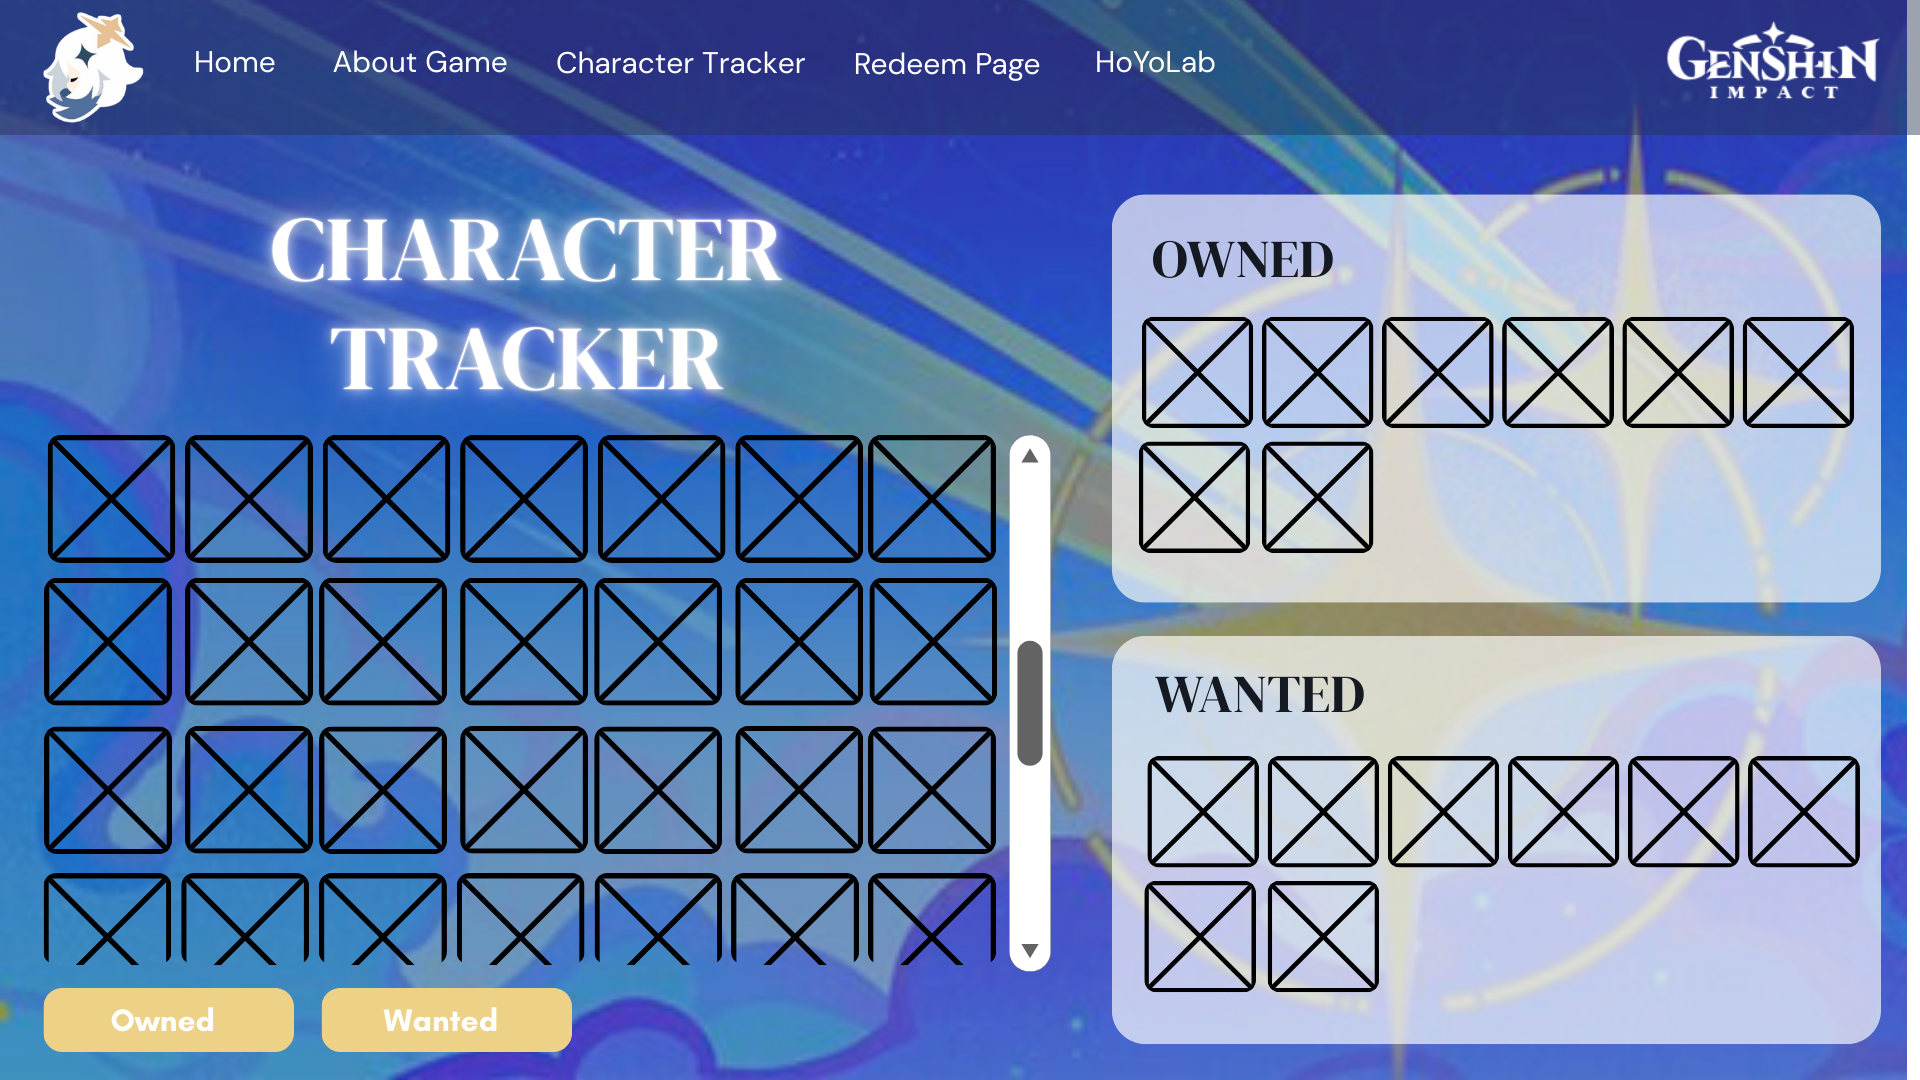
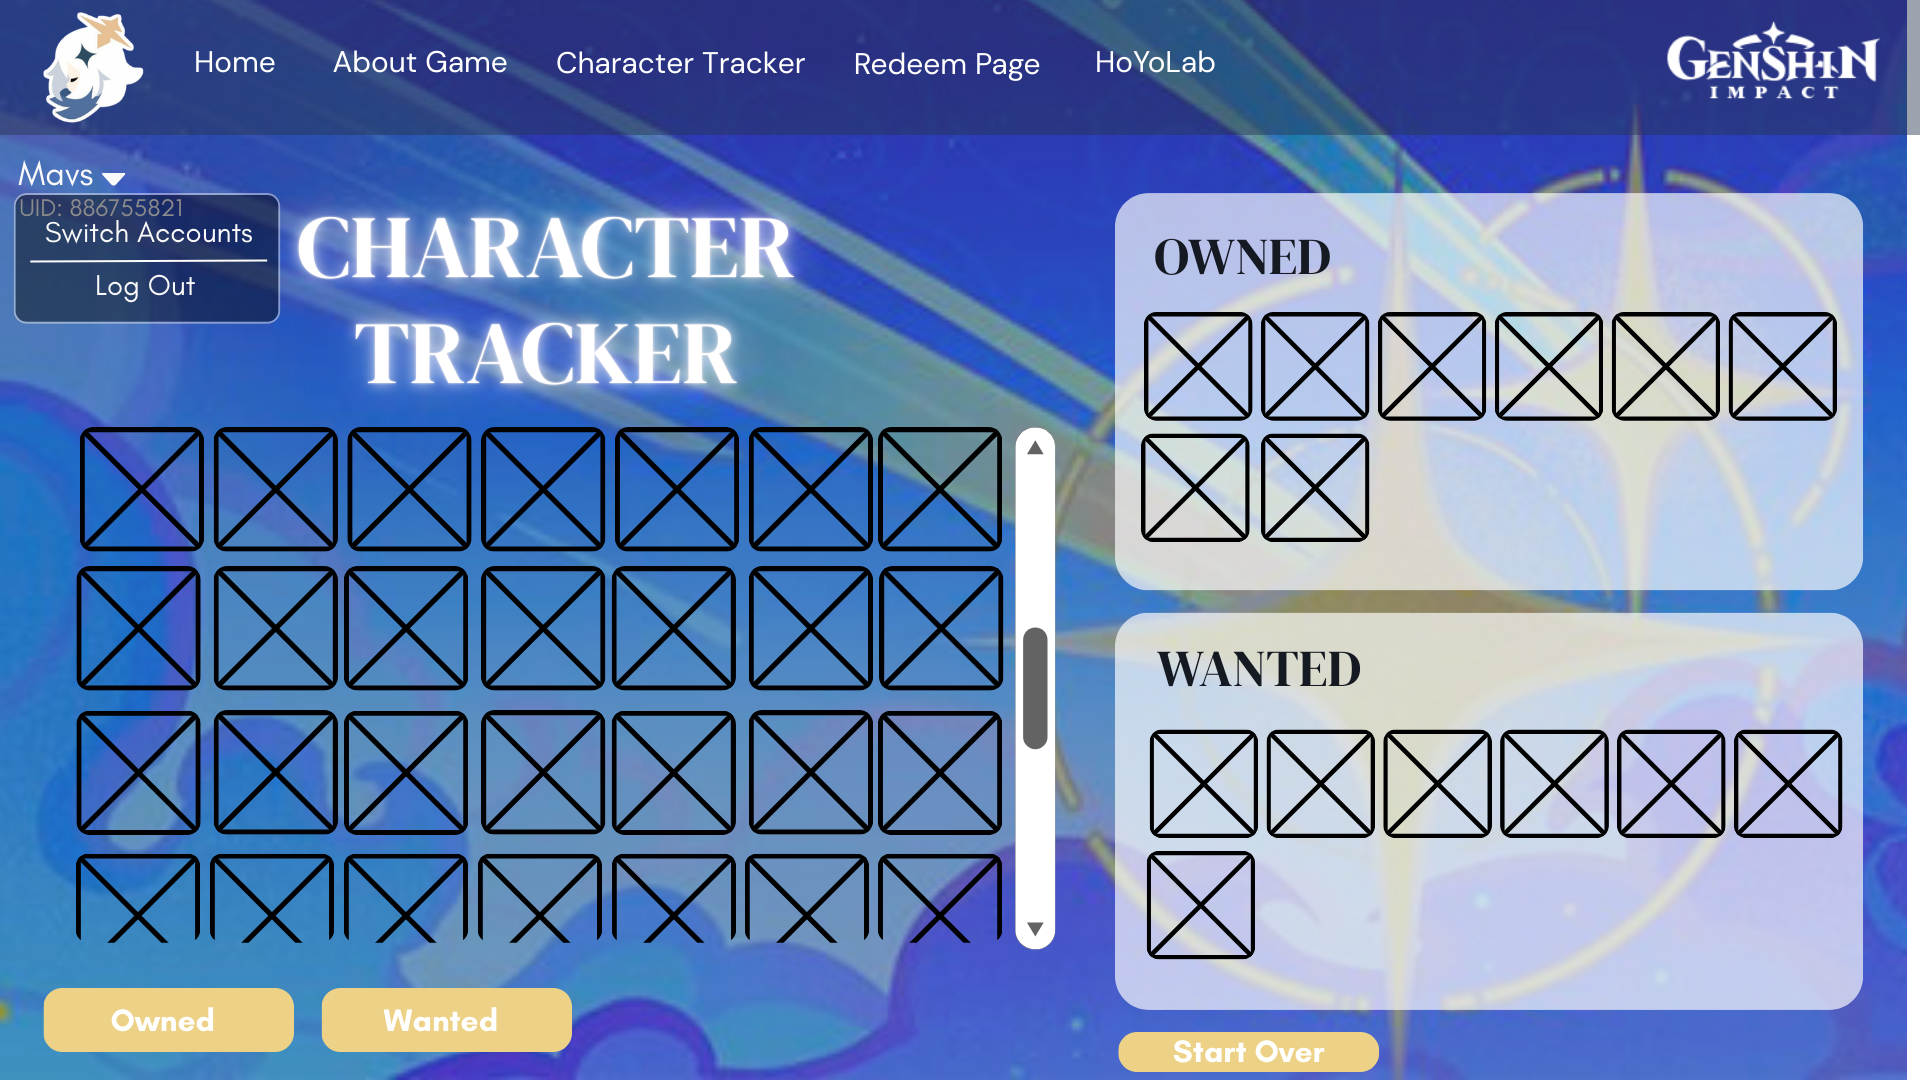
Update plan proposal

Changed region(s): [[0.0, 0.1833, 1.0, 1.0], [0.0, 0.1528, 0.4375, 0.3667]]

diff --git a/README.md b/README.md
@@ -2,62 +2,75 @@
 
 ## Webpage/Pop-up 1: Log-in page (Form page):
 ### Purpose:
-#### The Character Tracker page will serve as the main webpage where users can record their progress and preferences regarding Genshin Impact characters. It allows users to indicate which characters they already own and which characters they wish to obtain. This page collects user input through an interactive HTML form and saves the data locally on the user’s device for later use across the website.
-
-### Type of HTML Form Used:
-#### The webpage uses an HTML form with interactive controls, specifically:
-- Prompting for the user's email, UID, and server.
-
-### Character Tracker Page
-Clicking the webpage will warrant a pop-up log-in page to allow the users to track their current characters and the characters that they want.
-
-The log-in pop-up will ask for the user's email, password, and game UID.
+This will only serve as the main page in which they will log in their credentials, specifically: the user's nickname, UID, and server.
 
 ### How the Form Works:
+When the user submits the form, the entered credentials will be stored in the browser's localStorage under the key currentUser, which will be used to identify the active account on the website.
 
+## Webpage 2: Character Tracker Page
+### Purpose:
+#### The Character Tracker page will serve as the webpage where users can record their progress and preferences regarding Genshin Impact characters. It allows users to indicate which characters they already own and which characters they wish to obtain. This page allows users to categorize characters through an interactive drag-and-drop interface, and saves the data locally on the user’s device for later use across the website.
 
-#### Two action buttons are placed at the top or bottom of the page:
+#### User Pop-up Dropdown 
+At the top side of the webpage, there will be an overview of the user's nickname, and uid. Beside the user's nickname, there will be a dropdown menu containing two options: Switch Accounts and Log Out.
 
-- “Show Current Characters”: directs the user to Webpage, which displays the icons of characters waiting to be categorized via drag-and-drop.
-- “Show Wanted Characters”: directs the user to Webpage 3, which displays the icons of characters waiting to be categorized via drag-and-drop.
-- 
-#### These buttons allow smooth and organized navigation between pages.
+#### Two action buttons are placed at the bottom of the page:
+
+- “Owned Characters”: directs the user to Webpage 3, which displays the icons of characters waiting to be categorized via drag-and-drop.
+- “Wanted Characters”: directs the user to Webpage 4, which displays the icons of characters waiting to be categorized via drag-and-drop.
+These buttons allow smooth and organized navigation between pages.
 
 ### How and Where the Data Is Saved:
 The data collected through the form is saved using the browser’s localStorage, which stores data locally on the user’s device. This method does not require an internet connection or user account, as the data is stored directly in the user’s browser on their computer.
 
 #### The data persists even after the browser is closed and is automatically retrieved when the website is reopened on the same device.
 
-## Webpage 2: My Current Characters Page
+
+## Webpage 3: My Current Characters Page
 
 ### Purpose of the Webpage:
 The My Current Characters page displays all Genshin Impact characters that the user has marked as owned on the Character Tracker page. This webpage allows users to easily view and review the characters they currently have without manually searching through each nation page.
 
 ### How This Webpage Uses Saved Data:
-This webpage retrieves data from the browser’s localStorage by allowing them to efficiently drag their current characters into the right container. This gives the user more freedom and ease in tracking their Owned Characters. 
+This webpage retrieves the saved data from the browser’s localStorage and displays the characters that were previously categorized on the Character Tracker page. This gives the user more freedom and ease in tracking their Owned Characters. 
 
 ### Navigation:
-This webpage is accessed by clicking “Show Current Characters” on the Character Tracker page. A navigation button will also be available to allow users to return to Webpage 1.
+This webpage is accessed by clicking “Owned” on the Character Tracker page. A navigation button will also be available to allow users to return to Webpage 2, and go to Webpage 4.
 
-## Webpage 3: My Wishlist
+## Webpage 4: My Wishlist
 
 ### Purpose of the Webpage:
 The My Wishlist page displays all Genshin Impact characters that the user has marked as wanted on the Character Tracker page. This webpage allows users to easily view and review the characters they want without manually searching through each nation page.
 
 ### How This Webpage Uses Saved Data:
-This Webpage uses saved data 
+This webpage retrieves data from the browser’s localStorage by allowing them to efficiently drag their current characters into the right container. This gives the user more freedom and ease in tracking their Wanted Characters. 
 
 ### Navigation:
-This webpage is accessed by clicking “Show Wanted Characters” on the Character Tracker page. A navigation button will also be available to allow users to return to Webpage 1.
+This webpage is accessed by clicking “Wanted” on the Character Tracker page. A navigation button will also be available to allow users to return to Webpage 2, and go to Webpage 3.
 
 # FINAL MODIFICATION PROPOSAL
+## Adding of Data
+### How it will be implemented
+Another feature that will be implemented is Switch Account. When the user clicks the dropdown menu beside the nickname and UID overview, it will provide two options: Switch Accounts and Log Out. This allows users to log into a different account and access a separate set of stored character tracker data. Each account will have its own stored data in the browser's localStorage, which ensures that the Owned and Wanted characters are unique to each user. When a user switches accounts, the system will load the data associated with the selected account.
+
+### Purpose of Adding Data
+The purpose of this feature is to allow multiple users to use the tracker on the same browser while maintaining separate character lists and preferences.
+
 ## Updating of Data
+### How it will be implemented
+This will be implemented through the current drag-and-drop icon function of the character tracker. Every time a user drags and drops a character icon into either the Owned or Wanted container, the system will automatically update the data stored in localStorage. The stored data will then be used to display the corresponding characters in the Owned and Wanted webpages.
+
+### Purpose of Updating Data
+The purpose of updating data is to allow the user to continuously track the characters they currently own or wish to obtain. This ensures that the information displayed on the tracker remains accurate and up to date based on the user's selections.
 
 ## Deletion of Data
 ### How it will be implemented
-This will be implemented by the use of a "Start over" button on the bottom right part of the menu, which clears the container in which the characters have been dropped. 
+This will be implemented through a “Start Over” button located at the bottom right section of the tracker interface. When this button is clicked, it will clear the character containers and remove the stored character data from localStorage, resetting the user's tracker.
+
+Another implementation of data deletion is through the Log Out feature. When the user clicks the dropdown menu beside the nickname and UID overview, it will provide two options: Switch Accounts and Log Out. When a user logs out of the system, the website will first ask for confirmation. Once confirmed, the stored session data that identifies the current user will be removed, and the user will be redirected to Webpage 1.
+
 ### Purpose of Deletion of Data
-The purpose is to clear the data in the Character Wishlist and Character Tracker. This ensures that the user can have a fresh start in choosing and tracking their characters, allowing for a more comfortable and convenient user experience.
+The purpose of deleting data is to allow the user to reset their Character Wishlist and Character Tracker whenever necessary. This ensures that users can start over with a clean tracker if they wish to reorganize their characters or create a new list. Additionally, the log out feature helps maintain user privacy by ensuring that account-specific data is not accessible after the user exits their session.
 
 
 
@@ -74,8 +87,3 @@ The purpose is to clear the data in the Character Wishlist and Character Tracker
 ### Webpage 3
 ![Webpage 3 wireframe](./assets/WF3.png)
 
-### Updating Data
-![Drag and Drop wireframe](./assets/WF4.png)
-
-### Deleting Data
-![Clearing Data wireframe](./assets/WF5.png)
